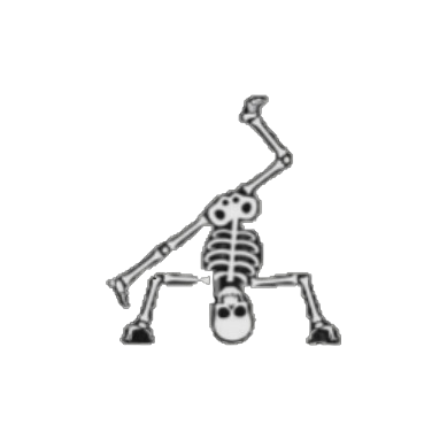
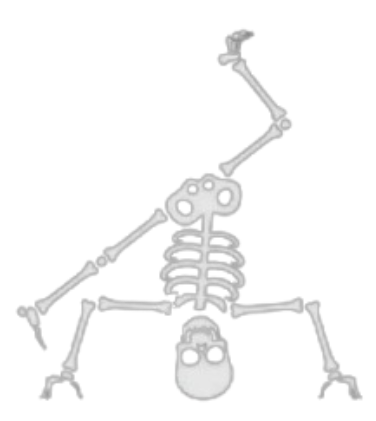
( ◕ ◞ ◕ ) auto commit

Changed region(s): [[0.0293, 0.0618, 0.9654, 0.9572]]

diff --git a/index.html b/index.html
@@ -190,8 +190,8 @@
   const skeleton11 = nn.create('img')
     .set('src', 'skeleton11.png')
     .addTo('body')
-    .set('width', 300)
-    .set('height', 400)
+    .set('width', 200)
+    .set('height', 300)
     .css('display', 'none')
 
   const skeleton12 = nn.create('img')
